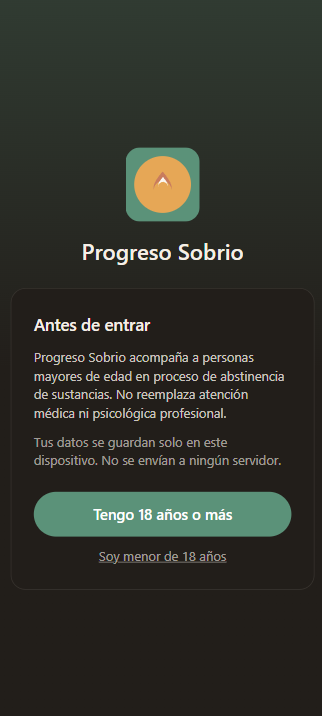
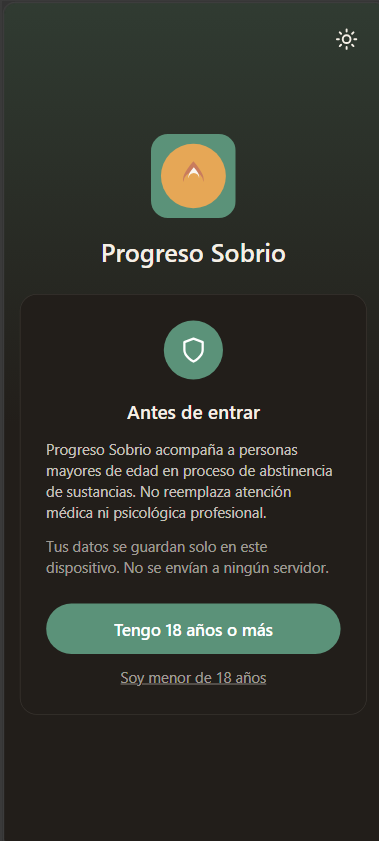
docs: agregar capturas del tour de bienvenida al README (#37)
Se reemplazan las capturas de la puerta de edad (ahora con el ícono
del escudo) y se agrega una sección con las 4 tarjetas del tour.

Changed region(s): [[0.0932, 0.1536, 0.9006, 0.8296], [0.0, 0.3687, 0.0311, 1.0], [0.9006, 0.0307, 0.9317, 0.0615]]

diff --git a/README.md b/README.md
@@ -44,6 +44,19 @@ Lo primero al abrir: confirmar mayoría de edad. Quien declara ser menor no qued
 <img src=".github/screenshots/puerta-edad-dark.png" width="240" alt="Pantalla de confirmación de mayoría de edad, modo oscuro">
 </p>
 
+Después, un tour de 4 tarjetas explica dónde está cada cosa antes de entrar a la app.
+
+<table>
+<tr>
+<td><img src=".github/screenshots/tour-bienvenida.png" width="240" alt="Tour de bienvenida, primera tarjeta"></td>
+<td><img src=".github/screenshots/tour-registro.png" width="240" alt="Tour de bienvenida, tarjeta de registro diario"></td>
+</tr>
+<tr>
+<td><img src=".github/screenshots/tour-progreso.png" width="240" alt="Tour de bienvenida, tarjeta de progreso"></td>
+<td><img src=".github/screenshots/tour-apoyo.png" width="240" alt="Tour de bienvenida, tarjeta de red de apoyo"></td>
+</tr>
+</table>
+
 <table>
 <tr>
 <td><img src=".github/screenshots/inicio.png" width="240" alt="Pantalla de inicio con la racha de sobriedad"></td>
